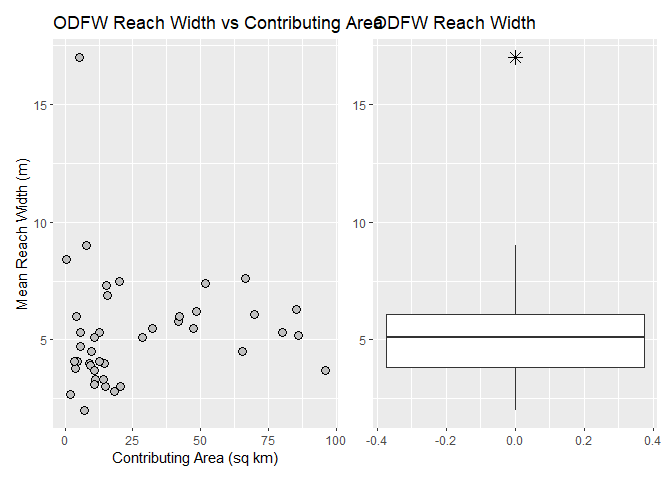
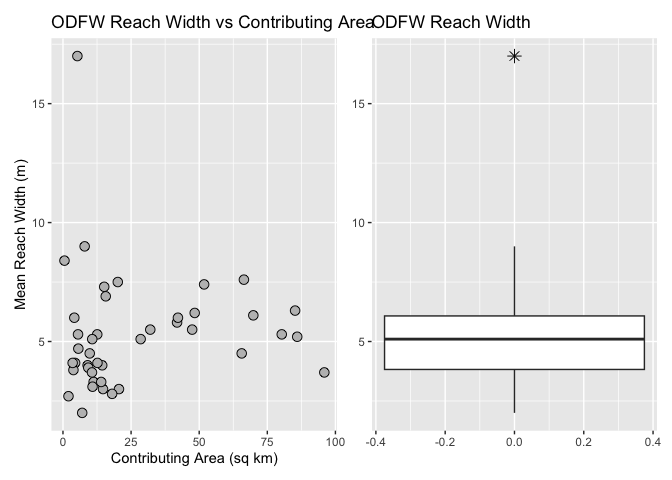
updated data + extra models
Added ODFW habitat survey measurements, water mask width estimates, and models from Castro and Jackson (2001).

diff --git a/ChannelGeometry.md b/ChannelGeometry.md
@@ -11,7 +11,7 @@ library(stats)
 library(ggplot2)
 library(patchwork)
 
-datafile <- "c:/work/sandbox/repos/Sprague/Sprague_Reach_Habitat_updated.csv"
+datafile <- "/Users/alexahaucke/Documents/GitHub/ChannelGeometry/Sprague_Reach_Habitat_updated.csv"
 data <- as.data.table(read.csv(datafile))
 reach_width <- data[ACW>0, .(AREA_SQKM, SPRAG14RCH, ACW)]
 widths <- reach_width[, .(width = mean(ACW, na.rm = TRUE)), by = SPRAG14RCH]
@@ -53,7 +53,7 @@ m_width
      residual sum-of-squares: 107.6
 
     Number of iterations to convergence: 5 
-    Achieved convergence tolerance: 2.963e-06
+    Achieved convergence tolerance: 2.98e-06
 
 ``` r
 # Plot the data and the fitted line
@@ -88,3 +88,53 @@ p_pnts
 Hmm, this shows channel depth decreasing with increasing contributing
 area. Perhaps they weren’t measuring bank-full depth, but including
 channel incision in their measurements.
+
+The survey manual suggests that they used bankfull measurements, but
+there may have been errors in data collection.
+
+Let’s compare these results to other survey data.
+
+``` r
+# Stack the widths
+width_long <- melt(data, 
+                   id.vars = c("SPRAG14RCH", "AREA_SQKM"),
+                   measure.vars = c("ACW", "AC_WIDTH", "MaskWidth"),
+                   variable.name = "width_type",
+                   value.name = "width")
+width_long <- width_long[width > 0]
+
+# Then average by reach
+width_reach <- width_long[, .(width = mean(width, na.rm = TRUE),
+                              area = mean(AREA_SQKM, na.rm = TRUE)), by = SPRAG14RCH]
+```
+
+Rerun the model
+
+``` r
+# (Optionally) remove outliers
+width_reach <- width_reach[width < 17]
+
+# Fit power model again
+m_width <- nls(width ~ a * area^b,
+               data = width_reach,
+               start = list(a = 4.4, b = 0.0354))
+summary(m_width)
+```
+
+
+    Formula: width ~ a * area^b
+
+    Parameters:
+      Estimate Std. Error t value Pr(>|t|)    
+    a  4.04443    0.60259   6.712 4.74e-08 ***
+    b  0.08209    0.04701   1.746   0.0884 .  
+    ---
+    Signif. codes:  0 '***' 0.001 '**' 0.01 '*' 0.05 '.' 0.1 ' ' 1
+
+    Residual standard error: 1.684 on 40 degrees of freedom
+
+    Number of iterations to convergence: 6 
+    Achieved convergence tolerance: 2.482e-06
+
+Castro et al. (2001) created regression models based on contributing
+areas, as well as width and heights.
